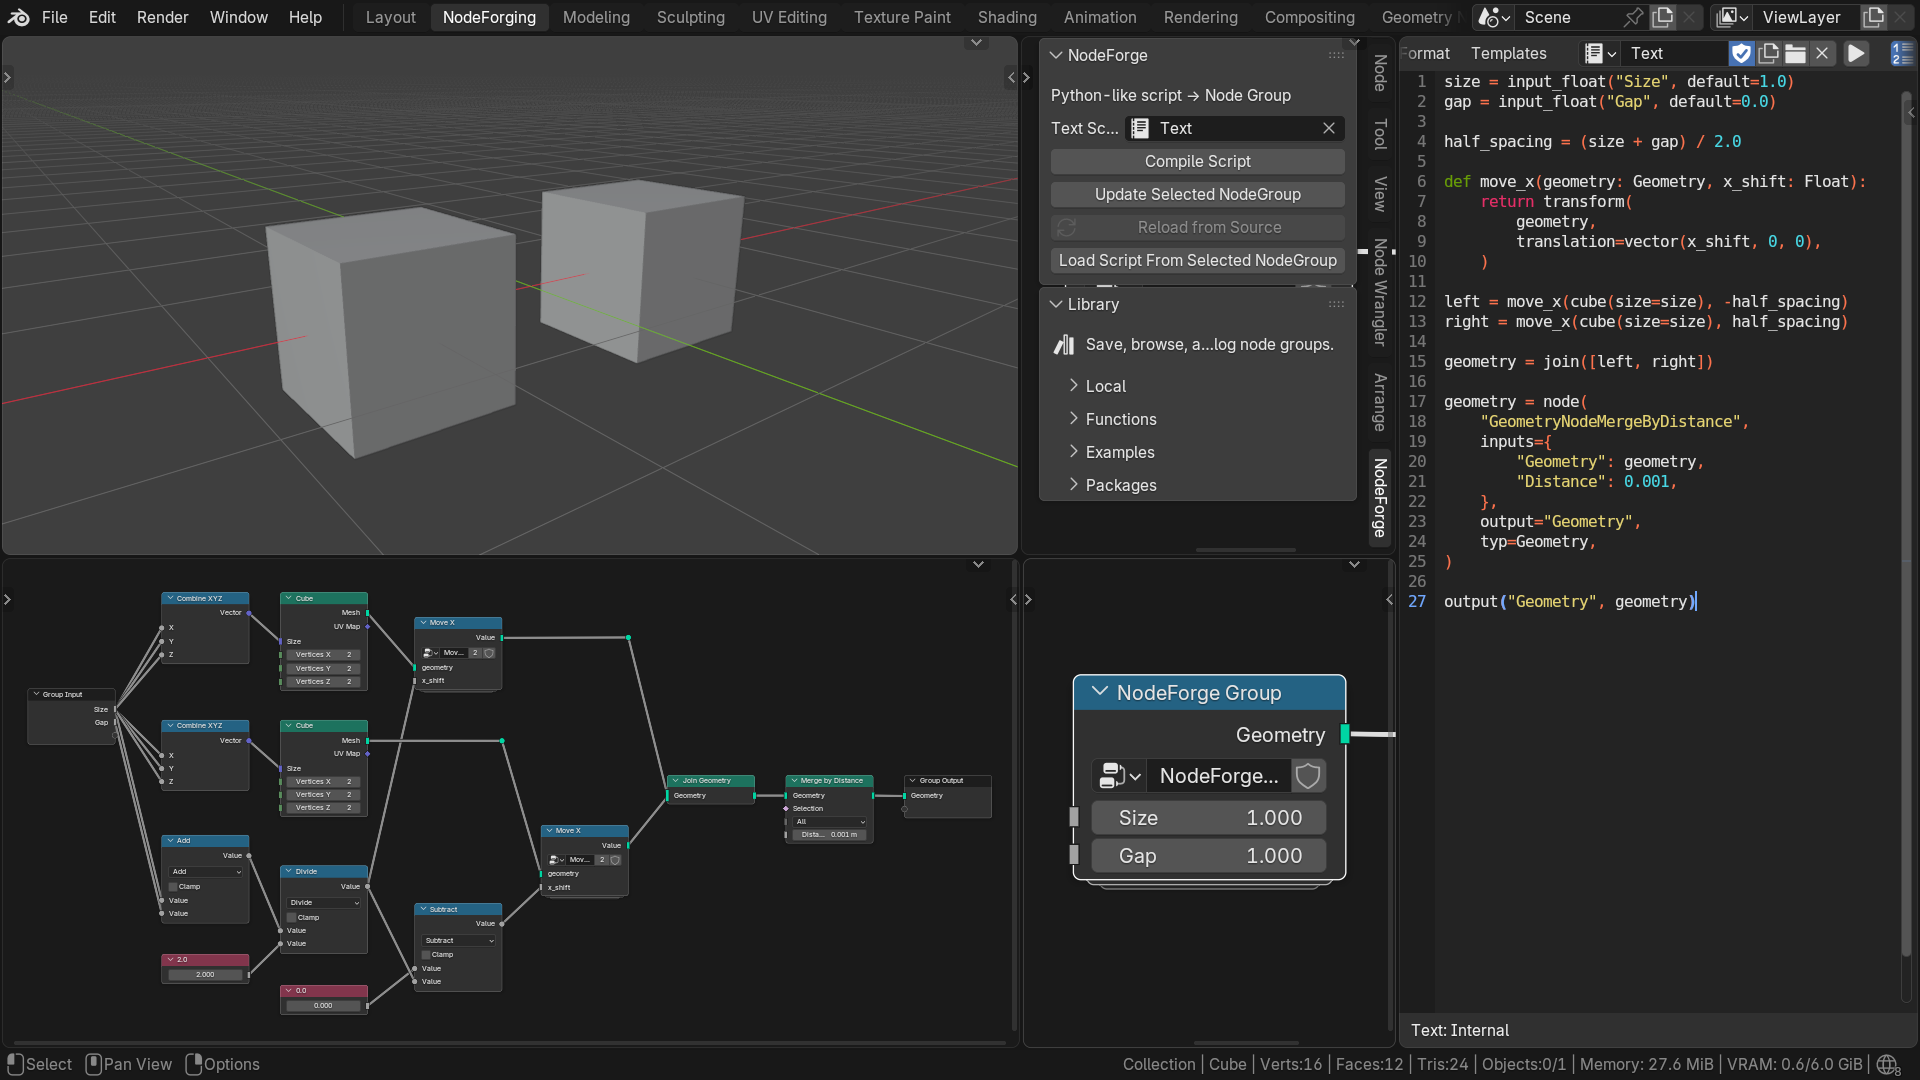
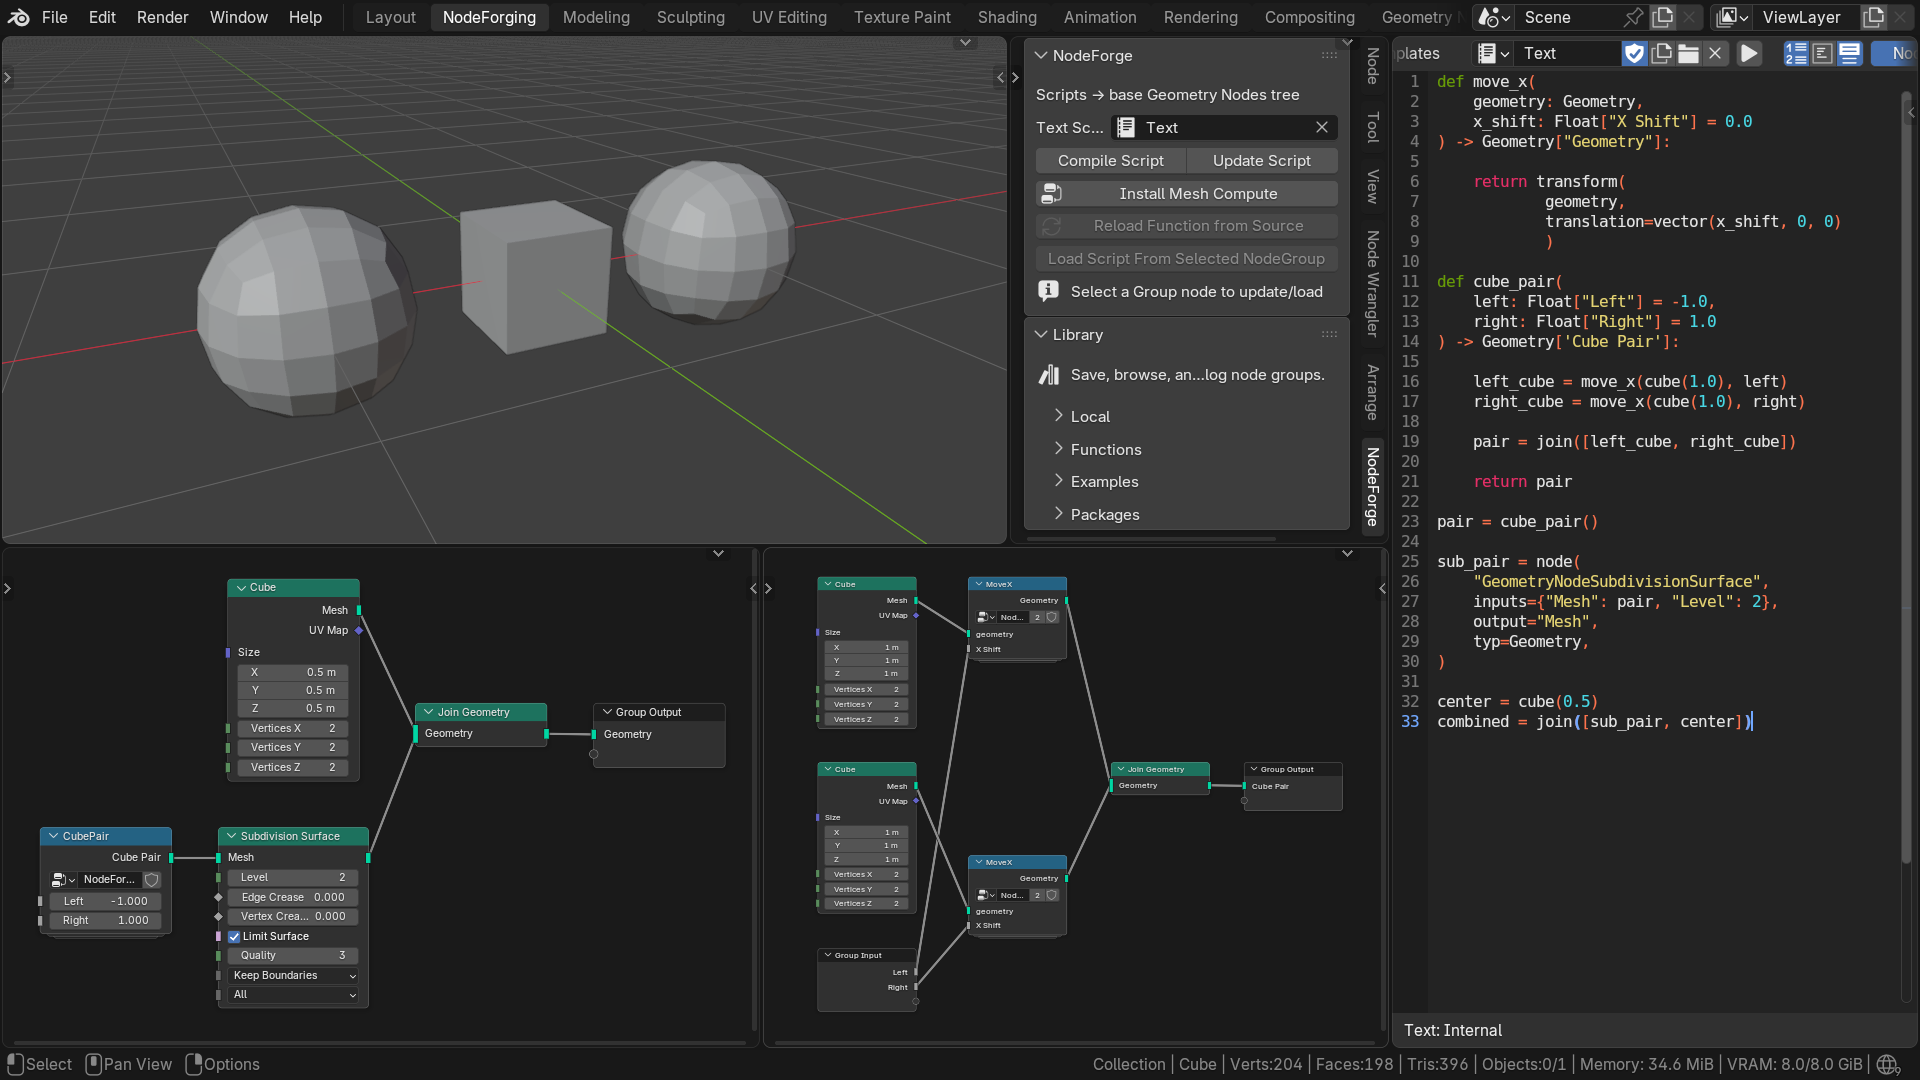
README update

diff --git a/README.md b/README.md
@@ -36,14 +36,6 @@ def make_cube(size: Float["Size"] = 2.0) -> Geometry:
 6. Click **Compile Script**. NodeForge places a `make_cube` Group Node in the existing base Geometry Nodes tree; its implementation lives in a nested node group.
 7. Connect the Group Node's **Value** output to the existing **Group Output** geometry input.
 
-To compose nodes directly instead, write executable top-level expressions such as `geo = cube(2)`. Calls to declared functions create Group Nodes alongside ordinary nodes. **Compile Script** appends nodes to the open base tree. **Update Script** compiles the currently selected Text and replaces all ordinary nodes in that same root, including manually created Group Nodes. The physical root, interface, Group Input/Output nodes and modifier references remain intact. Neither action automatically connects root inputs or outputs.
-
-To update an existing root, open its base tree in the Geometry Nodes editor (or pin an editable base tree), select the new Text in **Text Script**, and click **Update Script**. Each invocation uses the currently selected Text; there is no saved Text-to-root association. Update carries over compatible, unambiguous links to structural Group Input/Output and node positions when shapes match. Ambiguous or incompatible boundary edges are skipped and reported. Other manual links between ordinary nodes are replaced by the compiled graph. Repeated Update replaces rather than accumulates nodes. A nested group being edited must be closed before either script action runs.
-
-Update stages new nodes in the existing root and removes the old ordinary graph after compilation. Failures after nested materialization use local, best-effort recovery; shared nested function-group changes are not guaranteed to roll back completely. Ordinary root-node animation, including FCurves stored in NLA strips, blocks Update; structural Group Input/Output animation remains allowed. When recovery fails to restore the structural I/O Frame hierarchy, Update reports incomplete restoration and retains an Undo step. A manual nested Group datablock left without users can disappear after saving and reopening the `.blend`.
-
-An existing generated function group is updated in place when its canonical source definition is rebuilt. To make an independent copy, use Blender **Make Single User** and select the copied Group Node. The registered recovery operator `bpy.ops.nodeforge.detach_selected_source_owner()` can then remove its copied source ownership metadata; the Detach button is not shown in the N-panel.
-
 See the [Get Started guide](https://denikryt.github.io/NodeForgeDocs/latest/GET_STARTED/) for the complete beginner workflow.
 
 ## The language at a glance
@@ -55,16 +47,22 @@ def move_x(
     geometry: Geometry,
     x_shift: Float["X Shift"] = 0.0
 ) -> Geometry["Geometry"]:
-    return transform(geometry, translation=vector(x_shift, 0, 0))
+    
+    return transform(
+            geometry, 
+            translation=vector(x_shift, 0, 0)
+            )
 
 def cube_pair(
-    left: Float["Left"] = -2.0,
-    right: Float["Right"] = 2.0
+    left: Float["Left"] = -1.0,
+    right: Float["Right"] = 1.0
 ) -> Geometry['Cube Pair']:
+    
     left_cube = move_x(cube(1.0), left)
     right_cube = move_x(cube(1.0), right)
 
     pair = join([left_cube, right_cube])
+    
     return pair
 
 pair = cube_pair()
@@ -80,13 +78,8 @@ center = cube(0.5)
 combined = join([sub_pair, center])
 ```
 
-Declarations are visible before their textual definition. Parameters use exact Python identifiers as keyword names; `Float["X Shift"]` changes the Blender display label, not the keyword `x_shift`. Every parameter must have an explicit type annotation, even if it has a default. Function-local assignments shadow same-named module definitions and constants; a local read or call before assignment is an error. A parameter without `=` is required in explicit calls, while omitted optional parameters use their declared defaults.
-
-When a module has no executable top-level statements, **Compile Script** automatically places the functions that are not called by other definitions in that same module. All functions, including names beginning with `_`, remain importable.
 
 `node(...)` is the universal low-level form for Blender nodes without a dedicated NodeForge wrapper. It creates an ordinary Blender node, which can be combined with typed function calls and other expressions.
-
-The language is intended to make procedural logic easier to express and maintain as the graph grows. Mathematical relationships can be written directly as expressions, while Geometry Nodes operations remain visible through functions that fit naturally into Python-like code. 
 
 NodeForge scripts can call reusable functions and can be extended through installable third-party packages. This allows project-specific operations and larger procedural components to become part of the language used by other scripts.
 
@@ -110,7 +103,7 @@ Reusable `.nf` files from the Local library, including folders added from disk w
 ```python
 from local import erosion
 # erosion.nf exposes declarations, for example:
-# result = erosion.apply(geometry)
+result = erosion.apply(geometry)
 ```
 
 See [Unified `.nf` source reference](docs/UNIFIED_NF.md) for current source syntax, Local imports, function ownership and direct-composition semantics.
